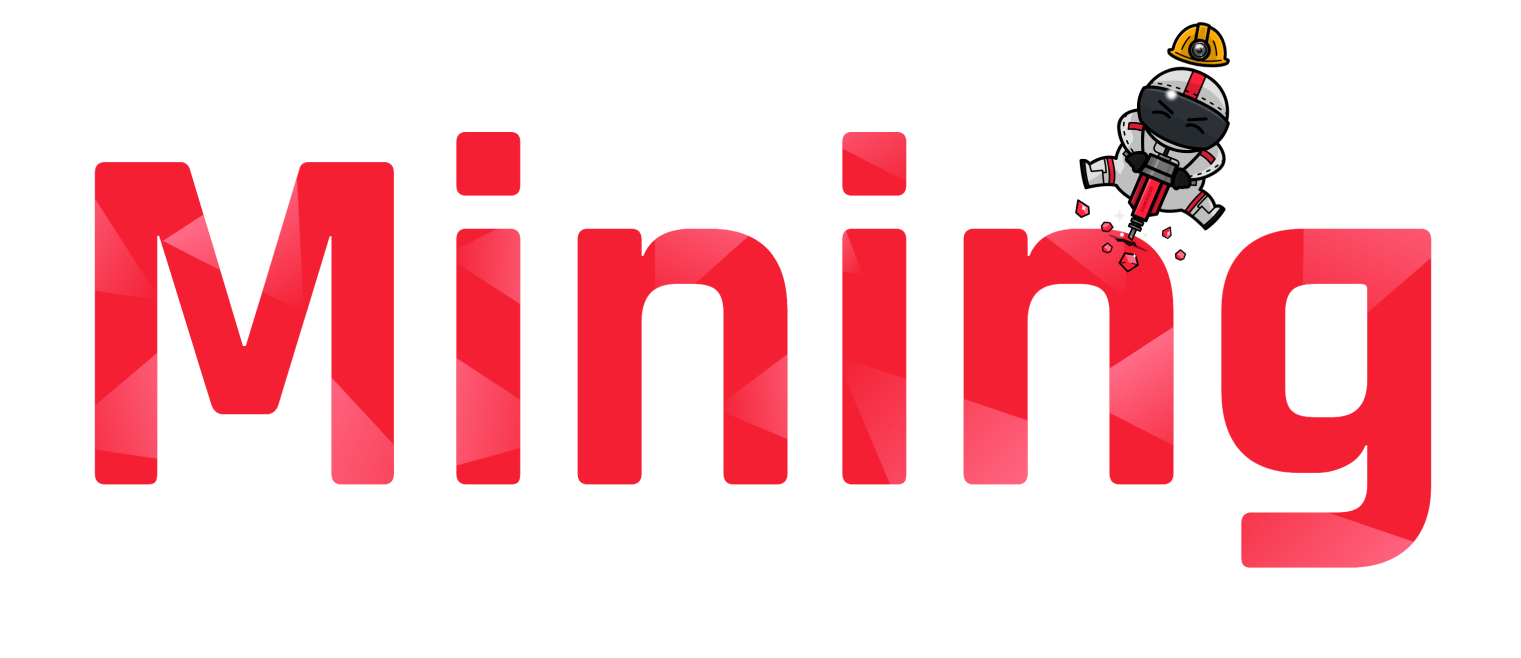
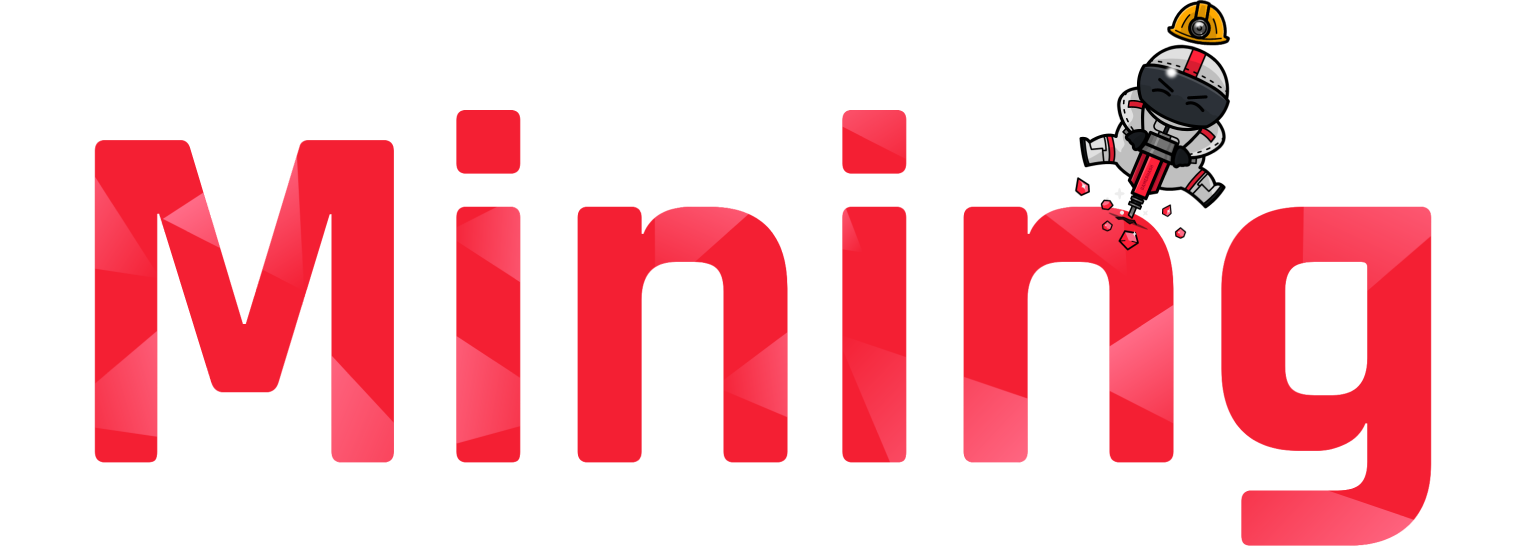
Create hero section

diff --git a/src/components/Hero/index.scss b/src/components/Hero/index.scss
@@ -1,0 +1,98 @@
+.Hero {
+  width: 100%;
+  height: 100vh;
+  position: relative;
+  overflow: hidden;
+  background: transparent radial-gradient(closest-side at 50% 48%, #2C3138 0%, #171A1F 100%) 0% 0% no-repeat padding-box;
+
+  &__content {
+    text-align: center;
+
+    @media (max-width: 767px) {
+      position: absolute;
+      top: 50%;
+      left: 50%;
+      transform: translate(-50%, -50%);
+      width: 100%;
+    }
+
+    &-image {
+      @media (min-width: 768px) {
+        position: absolute;
+        top: 50%;
+        left: 50%;
+        transform: translate(-50%, -50%);
+        width: 100%;
+      }
+
+      &-titles {
+        display: flex;
+        flex-direction: column;
+        align-items: center;
+        width: max-content;
+        margin: auto;
+
+        @media (min-width: 768px) {
+          flex-direction: row;
+          grid-gap: 15px;
+
+          flex-direction: row;
+          grid-gap: 30px;
+          position: absolute;
+          bottom: 5px;
+          left: 10%;
+        }
+
+        @media (min-width: 992px) {
+          grid-gap: 30px;
+        }
+
+        @media (min-width: 1600px) {
+          left: 13%;
+        }
+
+        @media (min-width: 1920px) {
+          left: 19%;
+        }
+      }
+    }
+
+    &-bottom {
+      position: absolute;
+      left: 50%;
+      bottom: 9%;
+      transform: translateX(-50%);
+
+      @media (min-width: 992px) {
+        margin-top: 65px;
+      }
+
+      @media (min-width: 992px) {
+        bottom: 3%;
+      }
+
+      &__text {
+        font-size: 14px;
+        font-weight: 600;
+        color: #737373;
+        margin-top: 85px;
+
+        @media (min-width: 992px) {
+          font-size: 20px;
+        }
+      }
+
+      &__arrow-down {
+        margin-top: 105px;
+
+        @media (min-width: 992px) {
+          margin-top: 65px;
+        }
+      }
+    }
+  }
+
+  &__image-text {
+    max-width: 100%;
+  }
+}

diff --git a/src/components/Hero/Hero.vue b/src/components/Hero/Hero.vue
@@ -1,0 +1,69 @@
+<template>
+  <div class="Hero">
+    <div class="Hero__content">
+      <div class="Hero__content-image">
+        <img :src="MiningHero" alt="Hero title" class="Hero__image-text" />
+
+        <div class="Hero__content-image-titles">
+          <hero-icon-title
+            v-for="item in HERO_TITLES"
+            :key="item.title"
+            :icon="item.icon"
+            :text="item.title"
+          />
+        </div>
+      </div>
+      <div class="Hero__content-bottom">
+        <p class="Hero__content-bottom__text">
+          what can i do with earned funds?
+        </p>
+        <img
+          :src="ArrowDown"
+          alt="Arrow down"
+          class="Hero__content-bottom__arrow-down"
+        />
+      </div>
+    </div>
+  </div>
+</template>
+
+<script>
+import HeroIconTitle from "@/components/Hero/HeroIconTitle/HeroIconTitle.vue";
+
+import MiningHero from "@/assets/mining-hero.png";
+import GraphIcon from "@/assets/icons/graph-icon.svg";
+import MiningIcon from "@/assets/icons/mining-icon.svg";
+import BuyIcon from "@/assets/icons/buy-icon.svg";
+import ArrowDown from "@/assets/icons/arrow-down.svg";
+
+export default {
+  name: "Hero",
+  components: {
+    HeroIconTitle,
+  },
+  setup() {
+    const HERO_TITLES = [
+      {
+        title: "how much can i earn",
+        icon: GraphIcon,
+      },
+      {
+        title: "how to mine?",
+        icon: MiningIcon,
+      },
+      {
+        title: "buy devices",
+        icon: BuyIcon,
+      },
+    ];
+
+    return {
+      MiningHero,
+      HERO_TITLES,
+      ArrowDown,
+    };
+  },
+};
+</script>
+
+<style lang="scss" src="./index.scss" scoped />

diff --git a/src/views/Home.vue b/src/views/Home.vue
@@ -1,25 +1,23 @@
 <template>
-  <div>{{ HeroTitle }}</div>
-  <img :src="ArrowDown" alt="Arrow down" />
+  <Hero />
 </template>
 
 <script>
-import { ref, onMounted } from "vue";
+// import { ref, onMounted } from "vue";
+
+import Hero from "@/components/Hero/Hero";
 
 import ArrowDown from "@/assets/icons/arrow-down.svg";
 
 export default {
   name: "Home",
+  components: {
+    Hero,
+  },
   setup() {
-    const HeroTitle = ref("GamerHash");
-
-    onMounted(() => {
-      console.log(HeroTitle);
-    });
-
     return {
-      HeroTitle,
       ArrowDown,
+      Hero,
     };
   },
 };

diff --git a/src/components/Hero/HeroIconTitle/index.scss b/src/components/Hero/HeroIconTitle/index.scss
@@ -1,0 +1,32 @@
+.HeroIconTitle {
+  display: flex;
+  align-items: center;
+  grid-gap: 10px;
+
+  @media (min-width: 992px) {
+    grid-gap: 20px;
+  }
+
+  &__icon {
+    width: 30px;
+    
+    @media (min-width: 992px) {
+      width: 40px;
+    }
+  }
+
+  &__text {
+    font-size: 18px;
+    font-weight: 600;
+    color: #737373;
+    margin-bottom: 0;
+
+    @media (min-width: 1200px) {
+      font-size: 24px;
+    }
+    
+    @media (min-width: 1366px) {
+      font-size: 32px;
+    }
+  }
+}

diff --git a/src/components/Hero/HeroIconTitle/HeroIconTitle.vue b/src/components/Hero/HeroIconTitle/HeroIconTitle.vue
@@ -1,0 +1,18 @@
+<template>
+  <div class="HeroIconTitle">
+    <img :src="icon" alt="Icon" class="HeroIconTitle__icon" />
+    <p class="HeroIconTitle__text">{{ text }}</p>
+  </div>
+</template>
+
+<script>
+export default {
+  name: "HeroIconTitle",
+  props: {
+    icon: String,
+    text: String,
+  },
+};
+</script>
+
+<style lang="scss" src="./index.scss" scoped />

diff --git a/public/index.html b/public/index.html
@@ -7,7 +7,7 @@
     <link rel="icon" href="<%= BASE_URL %>favicon.ico">
     <title><%= htmlWebpackPlugin.options.title %></title>
   </head>
-  <body>
+  <body style="margin: 0">
     <noscript>
       <strong>We're sorry but <%= htmlWebpackPlugin.options.title %> doesn't work properly without JavaScript enabled. Please enable it to continue.</strong>
     </noscript>

diff --git a/.eslintrc.js b/.eslintrc.js
@@ -10,5 +10,11 @@ module.exports = {
   rules: {
     "no-console": process.env.NODE_ENV === "production" ? "warn" : "off",
     "no-debugger": process.env.NODE_ENV === "production" ? "warn" : "off",
+    "prettier/prettier": [
+      "error",
+      {
+        endOfLine: "auto",
+      },
+    ],
   },
 };

diff --git a/src/components/AppUiWrapper/AppUiWrapper.vue b/src/components/AppUiWrapper/AppUiWrapper.vue
@@ -1,0 +1,13 @@
+<template>
+  <div class="app-ui-wrapper">
+    <slot />
+  </div>
+</template>
+
+<script>
+export default {
+  name: "AppUiWrapper",
+};
+</script>
+
+<style lang="scss" src="./index.scss" scoped />

diff --git a/src/App.vue b/src/App.vue
@@ -1,5 +1,3 @@
 <template>
-  <div>
-    <router-view></router-view>
-  </div>
+  <router-view></router-view>
 </template>

diff --git a/src/components/AppUiWrapper/index.scss b/src/components/AppUiWrapper/index.scss
@@ -1,0 +1,4 @@
+.app-ui-wrapper {
+  max-width: 1500px;
+  margin: auto;
+}
